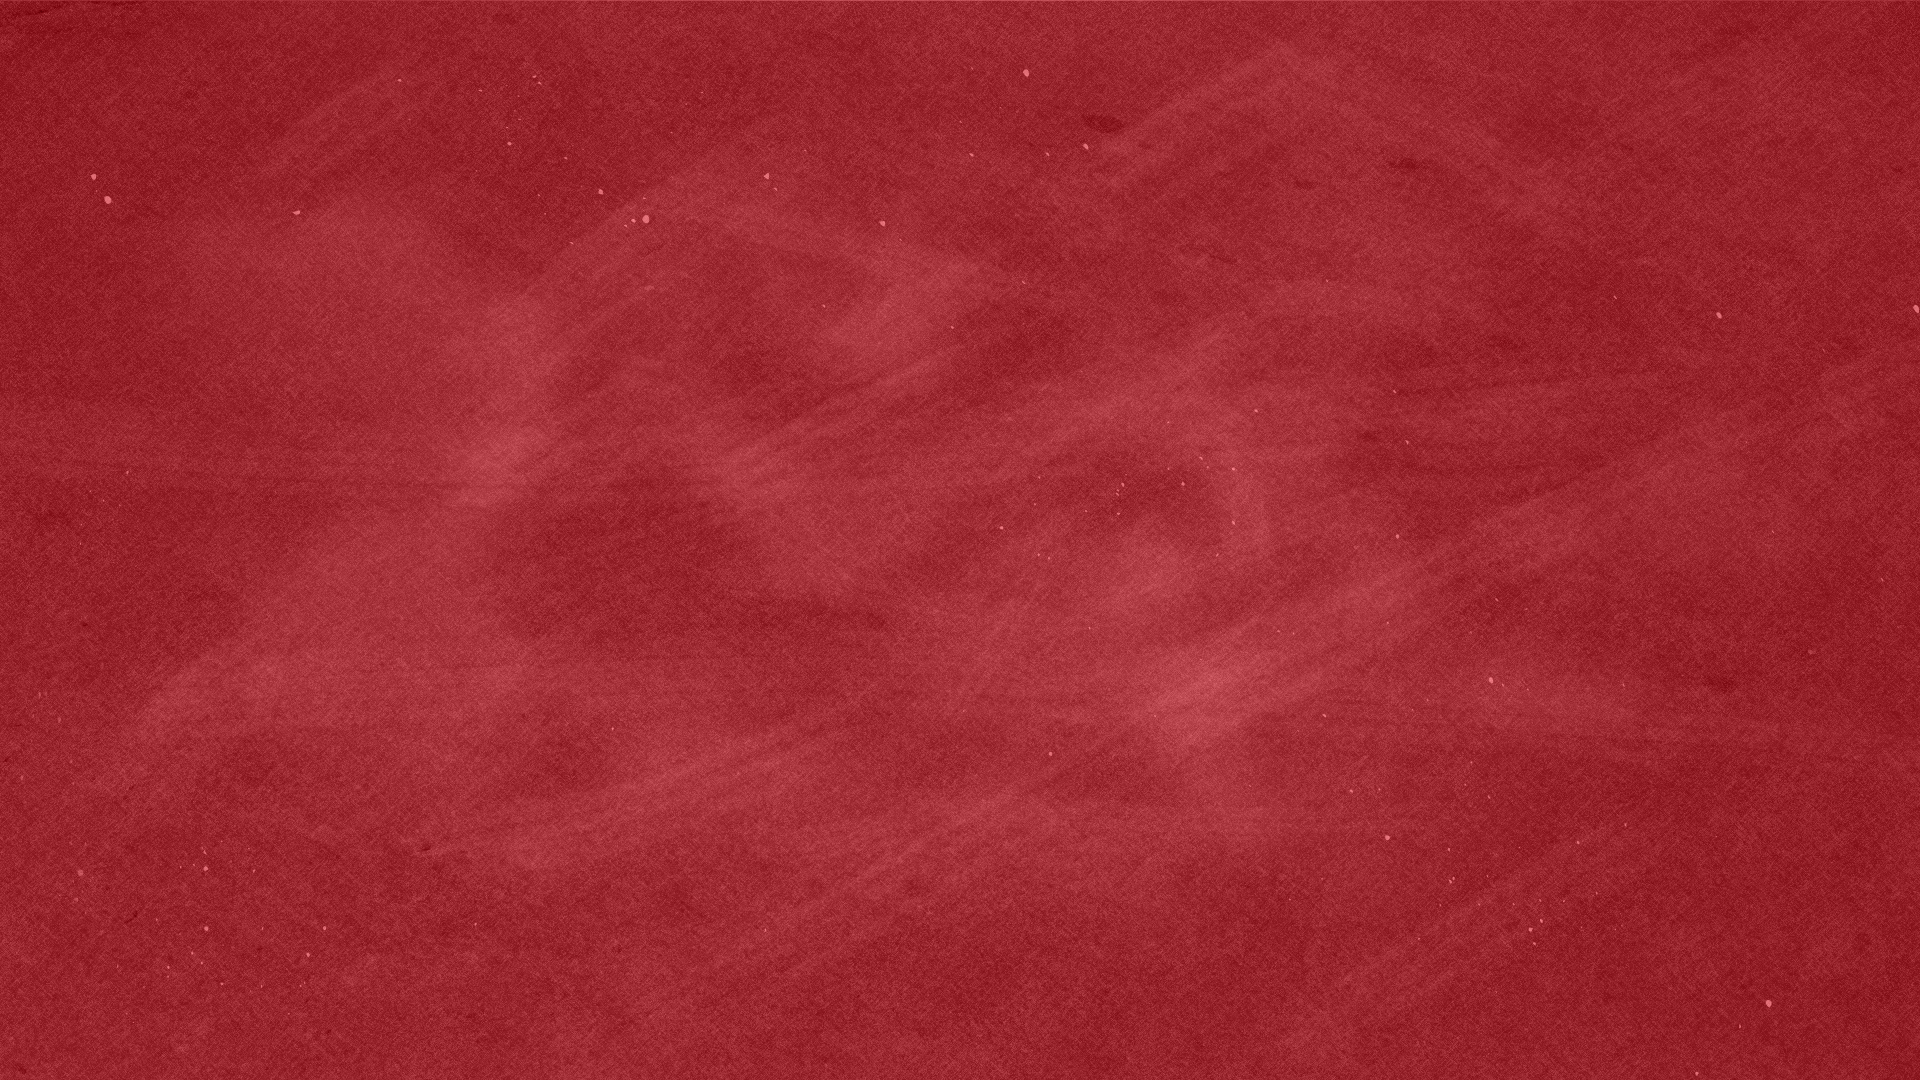
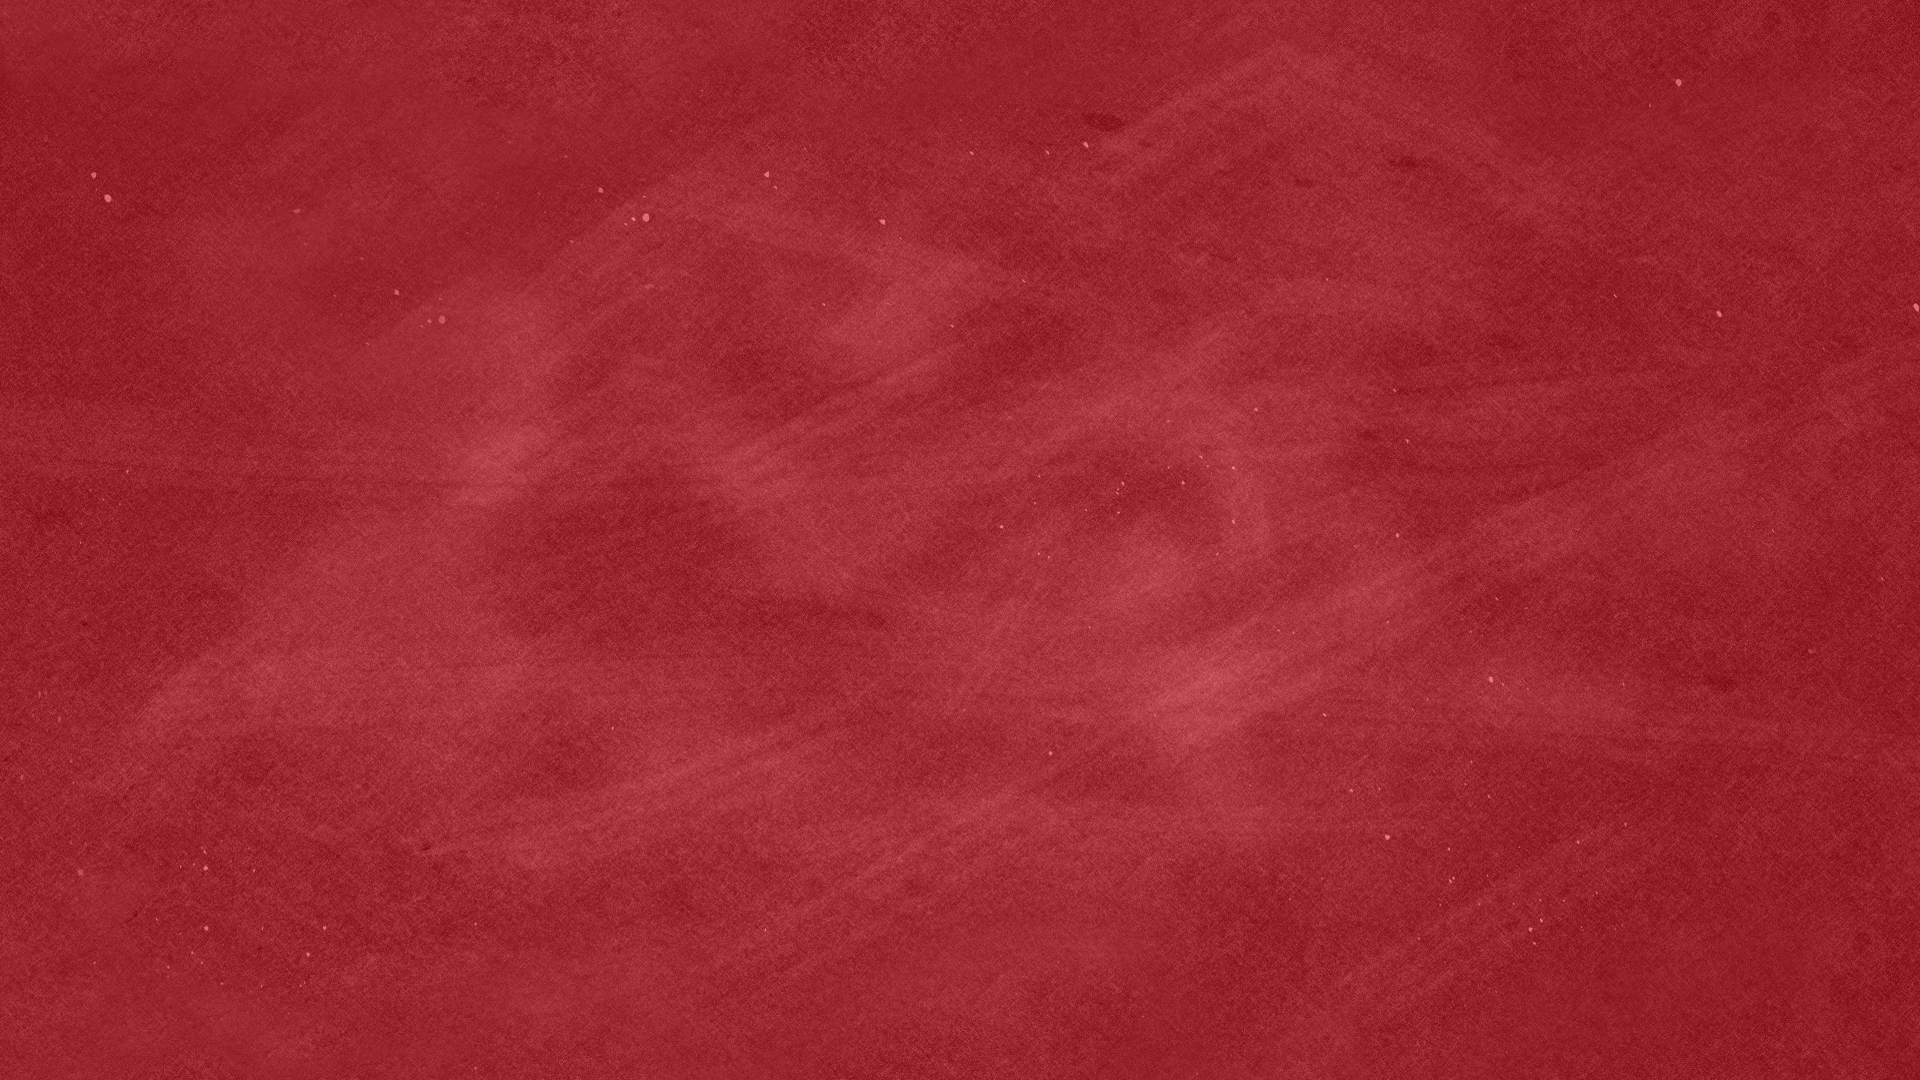
Add fixed background to lang-soft-edu

Changed region(s): [[0.0, 0.0, 0.0938, 0.0306], [0.5, 0.9167, 0.5312, 0.9472], [0.1875, 0.2444, 0.2188, 0.275]]

diff --git a/public/stylesheets/app.css b/public/stylesheets/app.css
@@ -179,11 +179,10 @@ p {
 
 #lang-soft-edu {
 	padding: 0 7% 75px 7%;
-	background-color: #e5e0e0;
 	background-image: url(/images/Chalkboard.png);
-	background-position: 50% 80%;
-	background-repeat: no-repeat;
-	background-size: cover;
+	background-repeat: repeat-y;
+	background-size: contain;
+	background-attachment: fixed;
 }
 
 #lang-soft-edu h4,{
